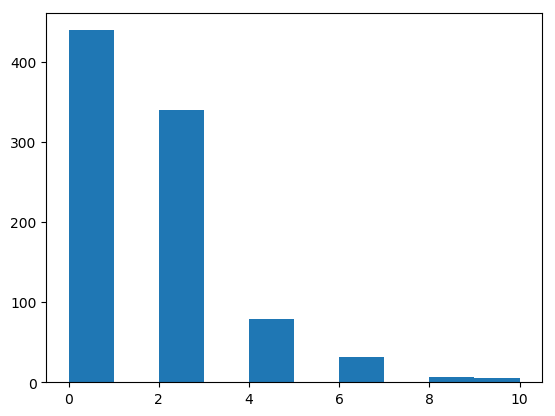
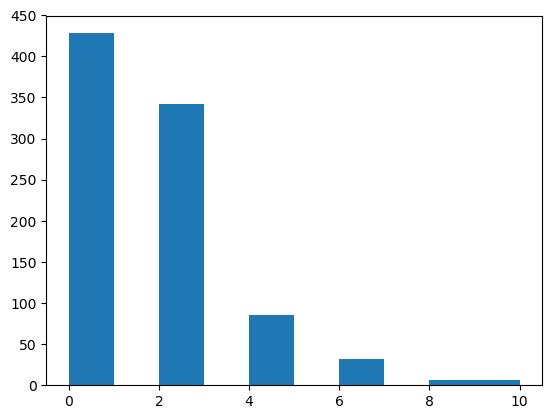
final

diff --git a/statitics.py b/statitics.py
@@ -2,7 +2,7 @@ import csv
 import matplotlib.pyplot as plt
 import re
 
-with open('test.csv', 'r') as data:
+with open('results.csv', 'r') as data:
         reader = csv.reader(data)
         all_data = list(reader)
 
@@ -42,11 +42,18 @@ with open('test.csv', 'r') as data:
         print('Min (Normal), Min (reduced)')
         print(min_data)
 
+        sym = [];
+        asym = [];
+        for idx, data in enumerate(diff_data):
+            if re.search(r'asym', order[idx]):
+                print(data)
+                asym += data
+            else:
+                sym += data
+
         hist1 = plt.figure()
-        asym = diff_data[0]+diff_data[1]+diff_data[2]
         plt.hist(asym ,histtype = 'bar')
         hist2 = plt.figure()
-        sym = diff_data[3]+diff_data[4] +diff_data[5]
         plt.hist(sym,histtype = 'bar')
         hist1.savefig('asymmetric_comparison',bbox_inches='tight')
         hist2.savefig('symmetric_comparison',bbox_inches='tight')

diff --git a/Main.py b/Main.py
@@ -74,7 +74,8 @@ def main():
                         if re.search(r'tree', filename):
                             print(filename)
                             copyfile(filename,tempdir+'/ref.tree')
-                            statistics =[(filename, )]
+                            statistics =[(filename,filename+'_reduced')]
+
                             break
 
 
